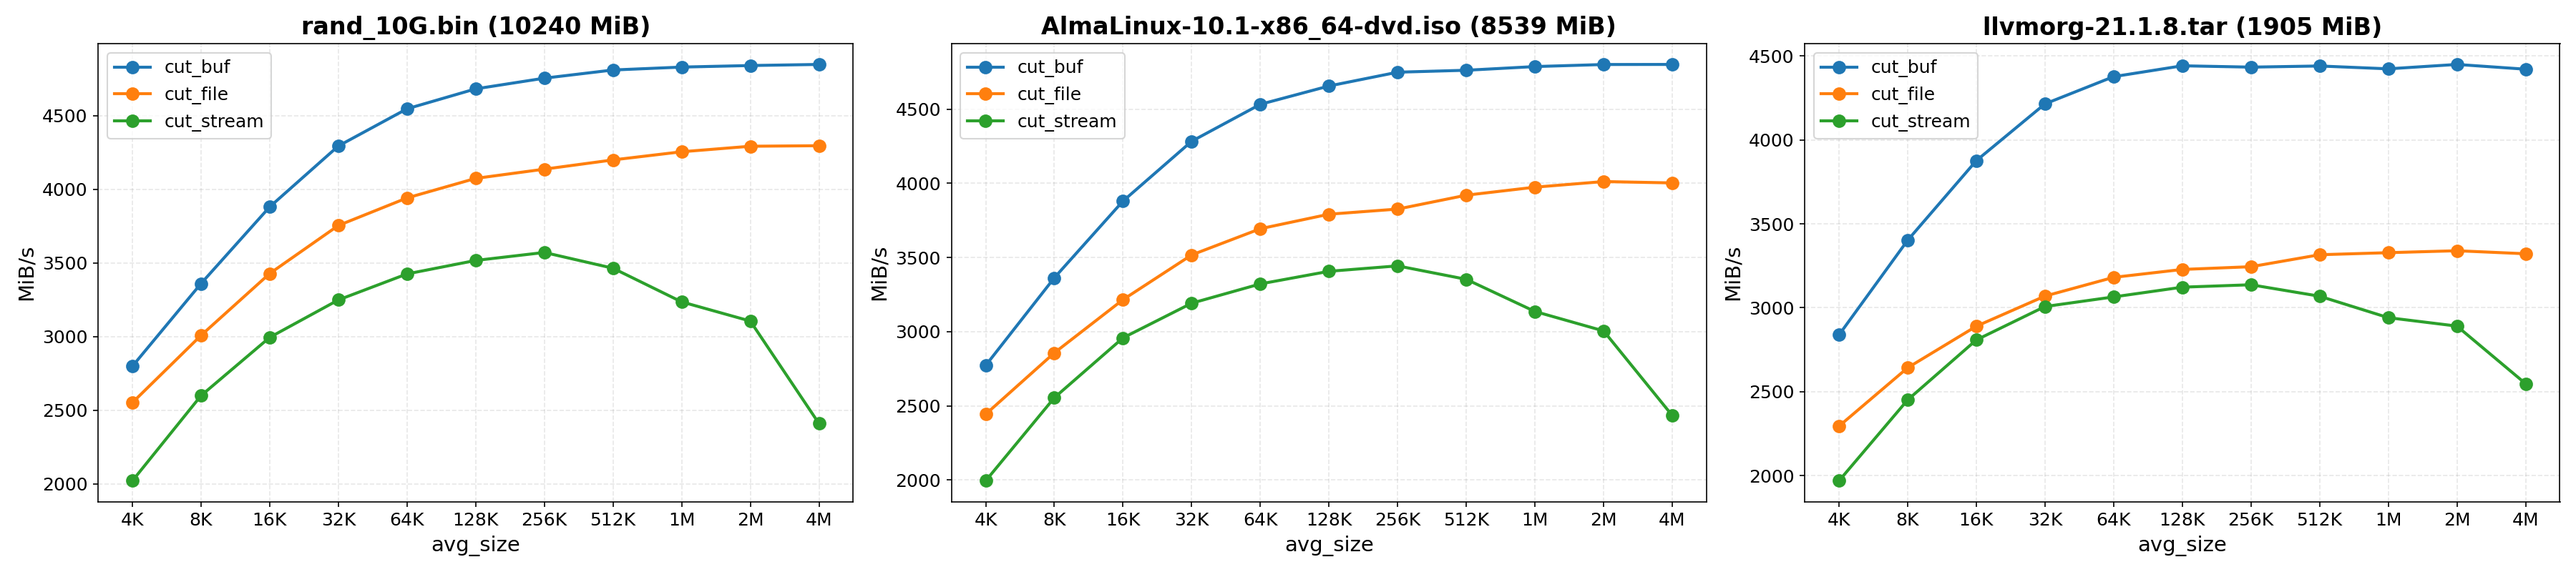
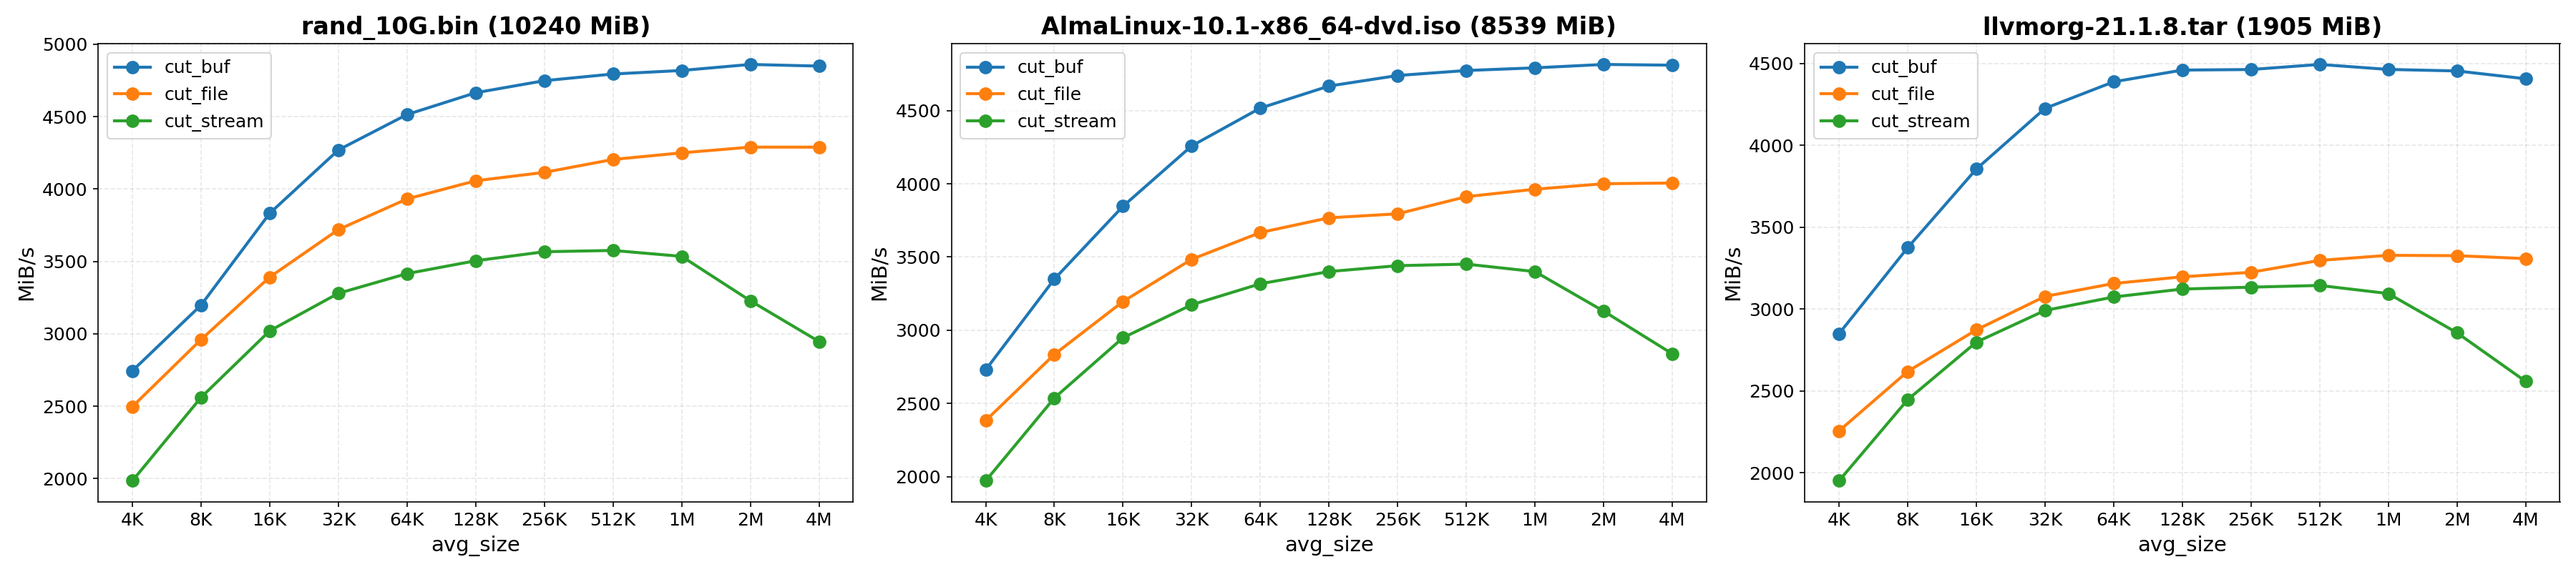
more benchmark details and readme things

diff --git a/README.md b/README.md
@@ -1,6 +1,8 @@
-# pyfastcdc
+# PyFastCDC
 
-FastCDC 2020 implementation in Python, with Cython acceleration
+A FastCDC 2020 implementation written in Python, with [Cython](https://github.com/cython/cython) acceleration
+
+Supports Python 3.6+
 
 **Still under development**
 
@@ -8,9 +10,17 @@ FastCDC 2020 implementation in Python, with Cython acceleration
 
 TODO
 
+PyFastCDC is available on PyPI with prebuilt wheels for common platforms. You can install it via pip or other Python package managers you want:
+
 ```bash
 pip install pyfastcdc
 ```
+
+For platforms without prebuilt wheels, a suitable build environment capable of compiling Python extension modules is required.
+For example, you might need to install `gcc` and `python3-dev` via `apt` in Debian
+
+If the Cython extension fails to compile, the installation will fall back
+to a pure-Python implementation, which is significantly slower
 
 ## Usage
 
@@ -26,26 +36,45 @@ for chunk in FastCDC(16384).cut_file('archive.tar'):
 
 ## Performance
 
+With the help of [Cython](https://github.com/cython/cython), PyFastCDC can achieve near-native performance
+
 ![benchmark](benchmark.png)
+
+Each test was run 10 times for averaging, achieving a maximum in-memory chunking speed of about 4.8GB/s
+
+FastCDC parameters:
+
+- `avg_size`: Independent variable
+- `min_size`: `avg_size` / 4 (default)
+- `max_size`: `avg_size` * 4 (default)
+- `normalized_chunking`: 1 (default)
+- `seed`: 1 (default)
 
 Test environment:
 
-- Python 3.11.14 (docker image `python:3.11`)
+- Python 3.11.14, Cython 3.2.4
 - Ryzen 7 6800H @ 4.55GHz, NVMe SSD, Debian 13.2
-
-Each test was run five times for averaging, achieving a maximum in-memory chunking speed of about 4.8 GB/s
 
 Test files:
 
-- `rand_10G.bin`: 10GB randomly generated data
-- [`AlmaLinux-10.1-x86_64-dvd.iso`](https://repo.almalinux.org/almalinux/10/isos/x86_64/AlmaLinux-10.1-x86_64-dvd.iso): 
+- `rand_10G.bin`: 10GiB randomly generated binary data
+- [`AlmaLinux-10.1-x86_64-dvd.iso`](https://repo.almalinux.org/almalinux/10/isos/x86_64/AlmaLinux-10.1-x86_64-dvd.iso): the DVD ISO image of AlmaLinux 10.1
 - [`llvmorg-21.1.8.tar`](https://github.com/llvm/llvm-project/archive/refs/tags/llvmorg-21.1.8.tar.gz): gzip-unzipped LLVM 21.1.8 source code
 
 Test command:
 
 ```bash
-python ./scripts/benchmark.py --test-files rand_10G.bin AlmaLinux-10.1-x86_64-dvd.iso llvmorg-21.1.8.tar
+cd scripts
+python benchmark.py --test-files rand_10G.bin AlmaLinux-10.1-x86_64-dvd.iso llvmorg-21.1.8.tar
 ```
+
+## Difference from iscc/fastcdc-py
+
+This project is inspired by [iscc/fastcdc-py](https://github.com/iscc/fastcdc-py), but differs in the following ways:
+
+1. Based on nlfiedler/fastcdc-rs, using its FastCDC 2020 implementation aligned with the original paper, rather than the simplified ronomon implementation
+2. Supports multiple types of input, including in-memory data buffers, regular file using mmap, and custom streaming input
+3. Does not include any CLI tool. It provides only the core FastCDC functionality
 
 ## License
 
@@ -58,7 +87,7 @@ Papers
 - FastCDC 2016: [FastCDC: A Fast and Efficient Content-Defined Chunking Approach for Data Deduplication](https://www.usenix.org/system/files/conference/atc16/atc16-paper-xia.pdf)
 - FastCDC 2020: [The Design of Fast Content-Defined Chunking for Data Deduplication Based Storage Systems](https://ieeexplore.ieee.org/document/9055082)
 
-Other Implementations
+Other FastCDC Implementations
 
 - [nlfiedler/fastcdc-rs](https://github.com/nlfiedler/fastcdc-rs), where this implementation is based on
 - [iscc/fastcdc-py](https://github.com/iscc/fastcdc-py), which provides an alternative FastCDC implementation based on [ronomon/deduplication](https://github.com/ronomon/deduplication)
